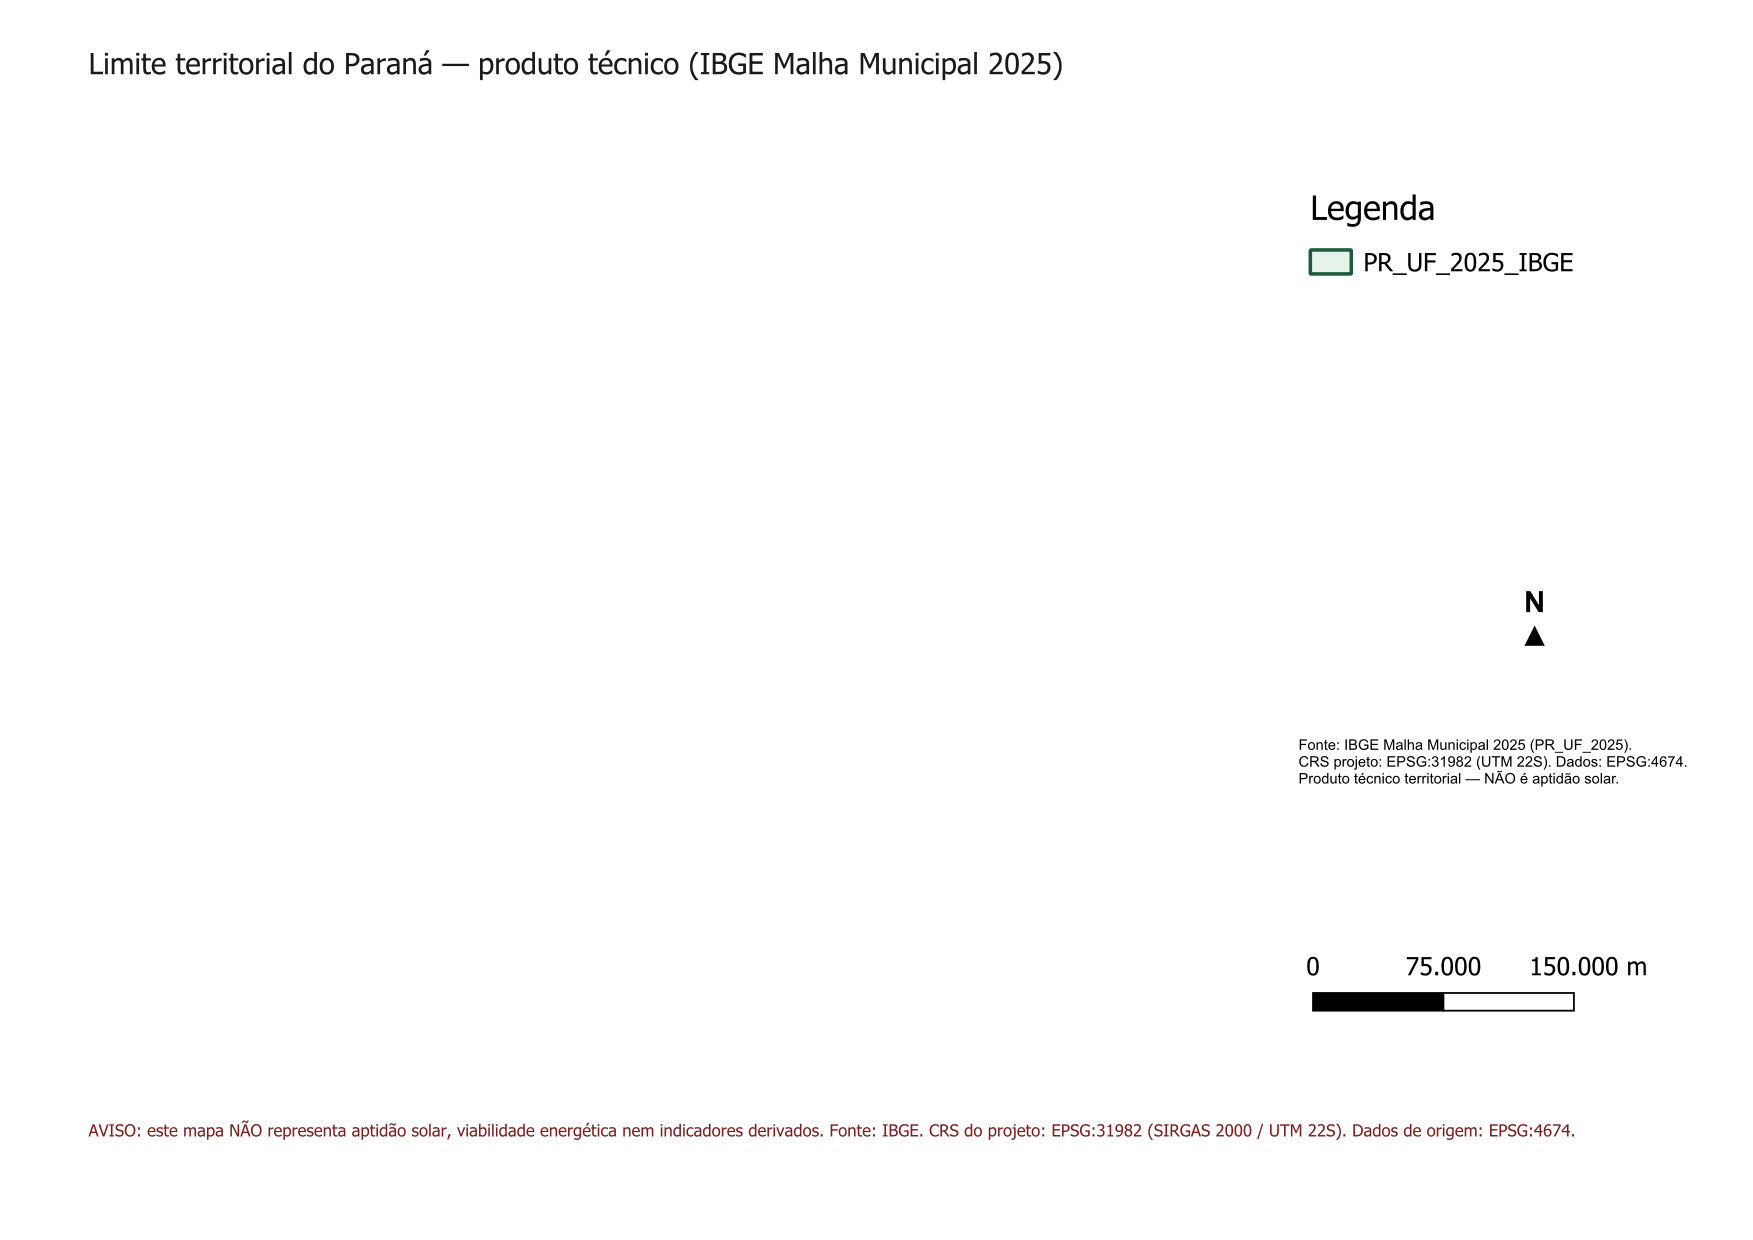
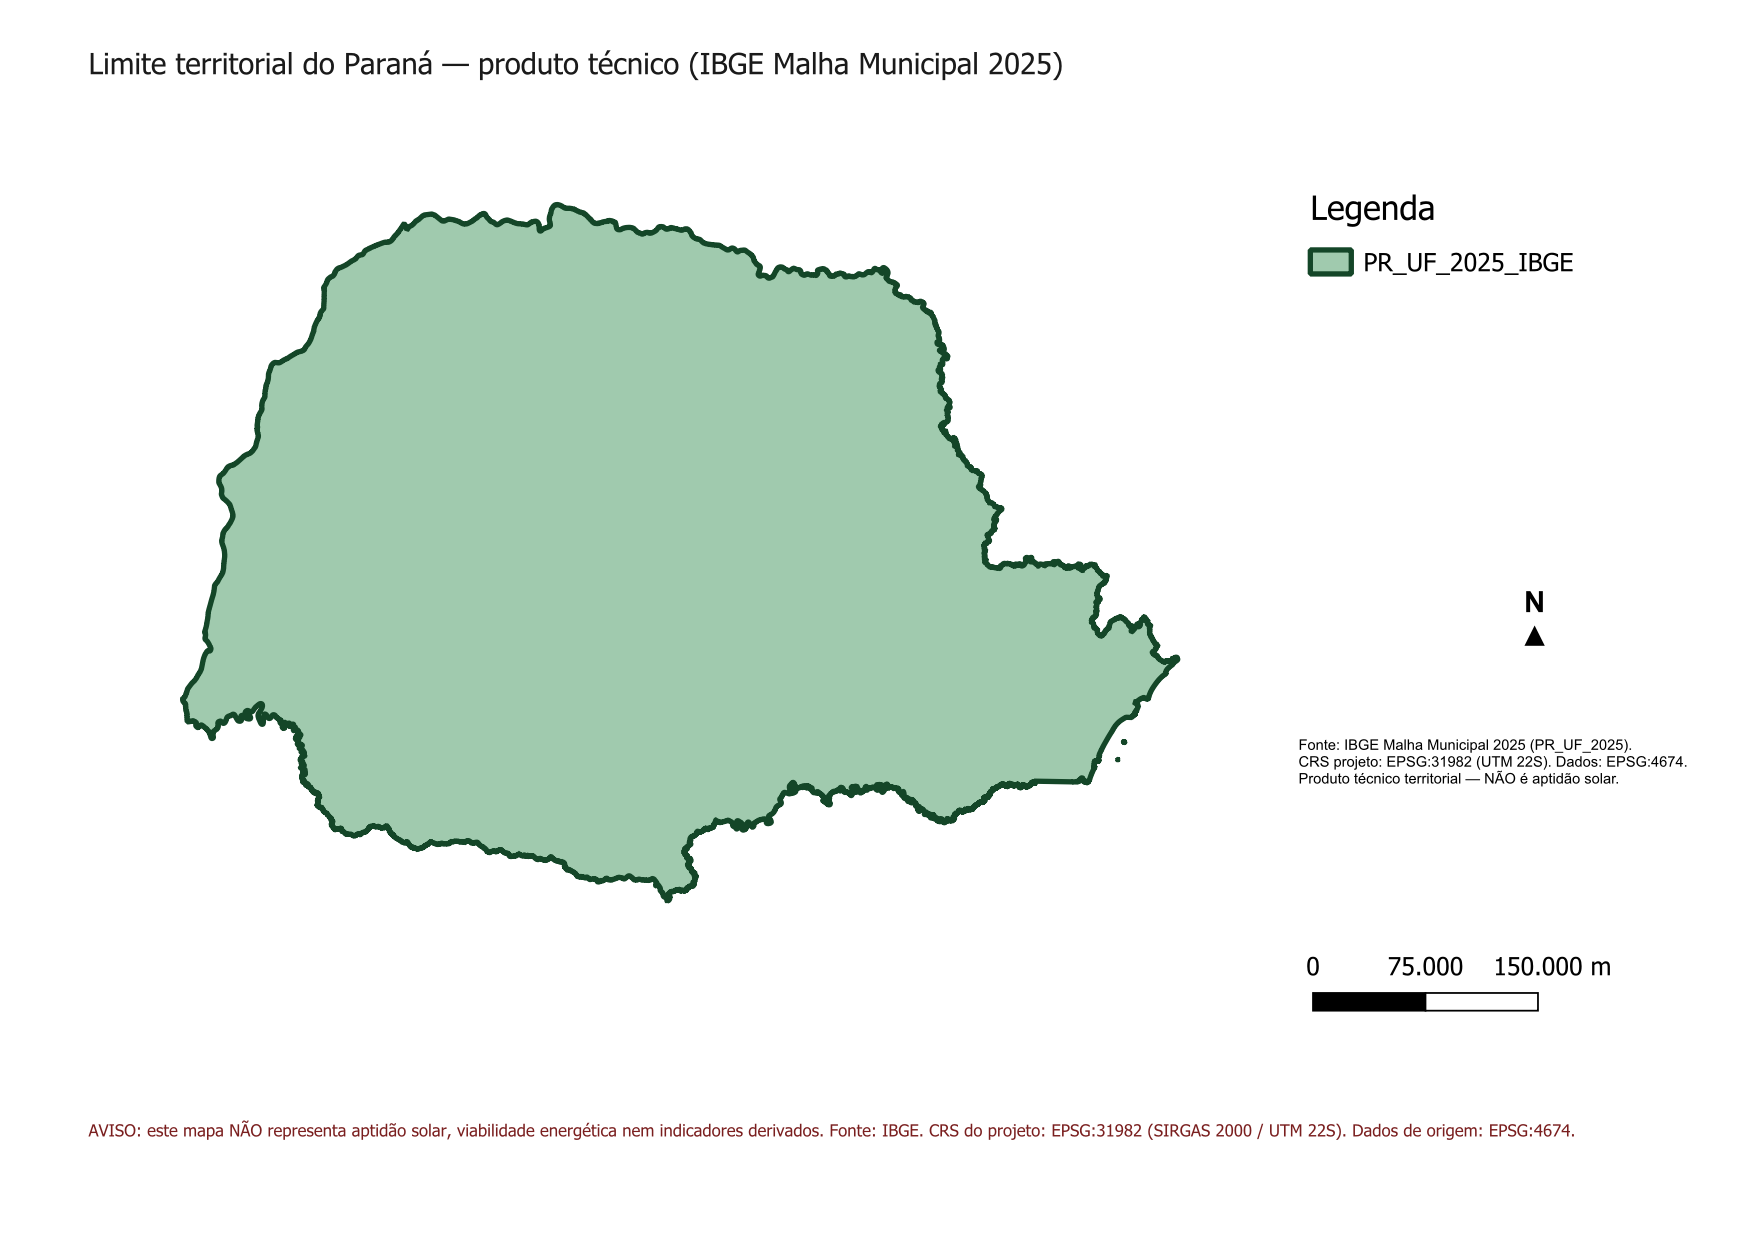
fix: corrigir extent e visibilidade do mapa técnico no layout QGIS
Recarrega a camada válida no item de mapa, aplica extent transformada com margem, reexporta o PNG com o contorno do Paraná legível e documenta o teste visual do layout.

Changed region(s): [[0.0924, 0.1532, 0.6777, 0.7355], [0.8009, 0.7661, 0.9241, 0.8274], [0.7393, 0.1839, 0.7701, 0.2452]]

diff --git a/docs/MVP02_RESULTADOS.md b/docs/MVP02_RESULTADOS.md
@@ -53,8 +53,21 @@ Inclui rejeição de CRS ausente/divergente, geometria vazia, não poligonal e c
 | Arquivo | Função |
 |---|---|
 | `qgis/parana_limites.qgz` | Projeto com datasource relativo `../data/derived/parana_uf_2025.geojson` |
-| `qgis/exports/parana_limites_tecnico.png` | Layout com legenda, norte, escala, fonte e aviso anti-aptidão |
+| `qgis/exports/parana_limites_tecnico.png` | Layout com polígono do Paraná visível + legenda/norte/escala/fonte/aviso |
 | `qgis/exports/parana_canvas_preview.png` | Preview do canvas |
+
+### Teste visual do layout (pós-revisão cartográfica)
+
+Causa do PNG em branco: camada do layout com datasource relativo inválido na sessão (`isValid=False`, `featureCount=-2`), enquanto o canvas ainda refletia estado anterior.
+
+Correção aplicada:
+1. Recarregar `parana_uf_2025.geojson` com camada válida (1 feição).
+2. Item `QgsLayoutItemMap` com CRS `EPSG:31982`, `setLayers([layer])`, extent transformada de `layer.extent()` + margem 8%.
+3. Simbologia reforçada (preenchimento verde, contorno escuro).
+4. Reexportar PNG e **inspecionar visualmente** o contorno do Paraná centralizado/legível (não basta `exportToImage` OK).
+5. Regravar `.qgz` com datasource relativo.
+
+Checklist visual confirmado no PNG final: polígono presente; legenda; norte; escala; fonte IBGE; aviso de que **não** é aptidão solar.
 
 Teste pós-clone: ver [qgis/README.md](../qgis/README.md).
 
